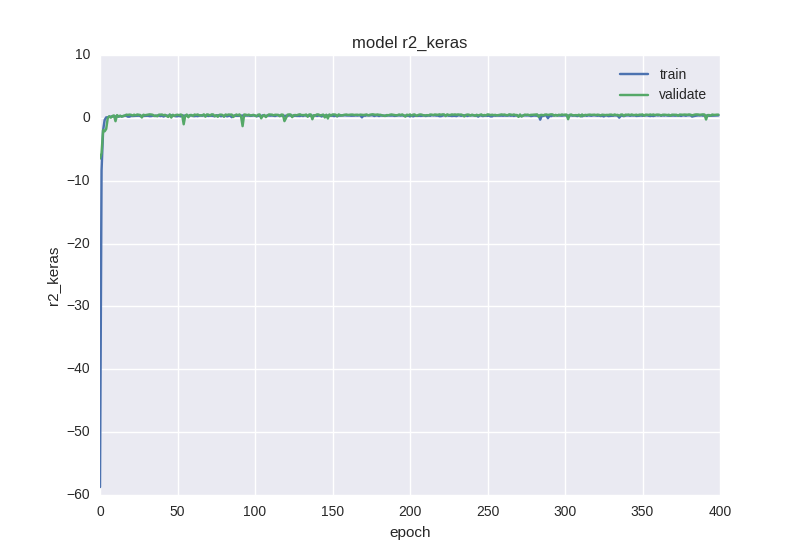
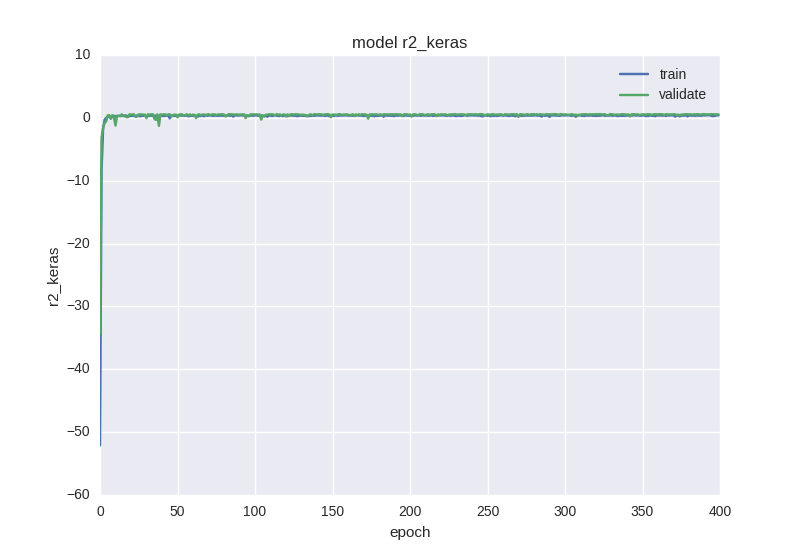
lstm test

Changed region(s): [[0.125, 0.1855, 0.9062, 0.2473], [0.125, 0.3091, 0.1562, 0.3709]]

diff --git a/mercedes/model_arch_merge.py b/mercedes/model_arch_merge.py
@@ -23,7 +23,9 @@ def fcnn(input_dim, input_str_dim):
     input_layers.append(input_layer2)
 
     d1 = Dense(200)(input_layer1)
-    d1 = Dropout(0.1)(d1)
+    #d1 = Dropout(0.1)(d1)
+    d1 = Reshape((200,1))(d1)
+    d1 = LSTM(30, return_sequences=False, go_backwards = False, activation='tanh', inner_activation='hard_sigmoid')(d1)
     d1 = BatchNormalization()(d1)
     d2 = Activation('relu')(d1)
 

diff --git a/mercedes/nn_merge.py b/mercedes/nn_merge.py
@@ -11,7 +11,7 @@ from copy import deepcopy
 from sklearn.metrics import r2_score
 from keras.callbacks import ModelCheckpoint
 from keras.models import load_model
-import model_arch as ma
+import model_arch_merge as ma
 import pickle as pk
 import gzip
 import keras
